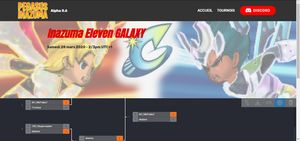
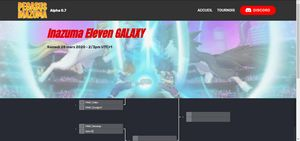
trngalax

diff --git a/assets/parallax/jarallax.min.js b/assets/parallax/jarallax.min.js
@@ -1,0 +1,7 @@
+/*!
+ * Name    : Just Another Parallax [Jarallax]
+ * Version : 1.10.6
+ * Author  : nK <https://nkdev.info>
+ * GitHub  : https://github.com/nk-o/jarallax
+ */!function(o){var n={};function i(e){if(n[e])return n[e].exports;var t=n[e]={i:e,l:!1,exports:{}};return o[e].call(t.exports,t,t.exports,i),t.l=!0,t.exports}i.m=o,i.c=n,i.d=function(e,t,o){i.o(e,t)||Object.defineProperty(e,t,{enumerable:!0,get:o})},i.r=function(e){"undefined"!=typeof Symbol&&Symbol.toStringTag&&Object.defineProperty(e,Symbol.toStringTag,{value:"Module"}),Object.defineProperty(e,"__esModule",{value:!0})},i.t=function(t,e){if(1&e&&(t=i(t)),8&e)return t;if(4&e&&"object"==typeof t&&t&&t.__esModule)return t;var o=Object.create(null);if(i.r(o),Object.defineProperty(o,"default",{enumerable:!0,value:t}),2&e&&"string"!=typeof t)for(var n in t)i.d(o,n,function(e){return t[e]}.bind(null,n));return o},i.n=function(e){var t=e&&e.__esModule?function(){return e.default}:function(){return e};return i.d(t,"a",t),t},i.o=function(e,t){return Object.prototype.hasOwnProperty.call(e,t)},i.p="",i(i.s=11)}([,,function(e,t,o){"use strict";e.exports=function(e){"complete"===document.readyState||"interactive"===document.readyState?e.call():document.attachEvent?document.attachEvent("onreadystatechange",function(){"interactive"===document.readyState&&e.call()}):document.addEventListener&&document.addEventListener("DOMContentLoaded",e)}},,function(o,e,t){"use strict";(function(e){var t;t="undefined"!=typeof window?window:void 0!==e?e:"undefined"!=typeof self?self:{},o.exports=t}).call(this,t(5))},function(e,t,o){"use strict";var n,i="function"==typeof Symbol&&"symbol"==typeof Symbol.iterator?function(e){return typeof e}:function(e){return e&&"function"==typeof Symbol&&e.constructor===Symbol&&e!==Symbol.prototype?"symbol":typeof e};n=function(){return this}();try{n=n||Function("return this")()||(0,eval)("this")}catch(e){"object"===("undefined"==typeof window?"undefined":i(window))&&(n=window)}e.exports=n},,,,,,function(e,t,o){e.exports=o(12)},function(e,t,o){"use strict";var n="function"==typeof Symbol&&"symbol"==typeof Symbol.iterator?function(e){return typeof e}:function(e){return e&&"function"==typeof Symbol&&e.constructor===Symbol&&e!==Symbol.prototype?"symbol":typeof e},i=l(o(2)),a=o(4),r=l(o(13));function l(e){return e&&e.__esModule?e:{default:e}}var s=a.window.jarallax;if(a.window.jarallax=r.default,a.window.jarallax.noConflict=function(){return a.window.jarallax=s,this},void 0!==a.jQuery){var c=function(){var e=arguments||[];Array.prototype.unshift.call(e,this);var t=r.default.apply(a.window,e);return"object"!==(void 0===t?"undefined":n(t))?t:this};c.constructor=r.default.constructor;var u=a.jQuery.fn.jarallax;a.jQuery.fn.jarallax=c,a.jQuery.fn.jarallax.noConflict=function(){return a.jQuery.fn.jarallax=u,this}}(0,i.default)(function(){(0,r.default)(document.querySelectorAll("[data-jarallax]"))})},function(e,j,S){"use strict";(function(e){Object.defineProperty(j,"__esModule",{value:!0});var d=function(e,t){if(Array.isArray(e))return e;if(Symbol.iterator in Object(e))return function(e,t){var o=[],n=!0,i=!1,a=void 0;try{for(var r,l=e[Symbol.iterator]();!(n=(r=l.next()).done)&&(o.push(r.value),!t||o.length!==t);n=!0);}catch(e){i=!0,a=e}finally{try{!n&&l.return&&l.return()}finally{if(i)throw a}}return o}(e,t);throw new TypeError("Invalid attempt to destructure non-iterable instance")},t=function(){function n(e,t){for(var o=0;o<t.length;o++){var n=t[o];n.enumerable=n.enumerable||!1,n.configurable=!0,"value"in n&&(n.writable=!0),Object.defineProperty(e,n.key,n)}}return function(e,t,o){return t&&n(e.prototype,t),o&&n(e,o),e}}(),p="function"==typeof Symbol&&"symbol"==typeof Symbol.iterator?function(e){return typeof e}:function(e){return e&&"function"==typeof Symbol&&e.constructor===Symbol&&e!==Symbol.prototype?"symbol":typeof e},o=a(S(2)),n=a(S(14)),i=S(4);function a(e){return e&&e.__esModule?e:{default:e}}var s=-1<navigator.userAgent.indexOf("MSIE ")||-1<navigator.userAgent.indexOf("Trident/")||-1<navigator.userAgent.indexOf("Edge/"),r=function(){for(var e="transform WebkitTransform MozTransform".split(" "),t=document.createElement("div"),o=0;o<e.length;o++)if(t&&void 0!==t.style[e[o]])return e[o];return!1}(),b=void 0,v=void 0,l=void 0,c=!1,u=!1;function m(e){b=i.window.innerWidth||document.documentElement.clientWidth,v=i.window.innerHeight||document.documentElement.clientHeight,"object"!==(void 0===e?"undefined":p(e))||"load"!==e.type&&"dom-loaded"!==e.type||(c=!0)}m(),i.window.addEventListener("resize",m),i.window.addEventListener("orientationchange",m),i.window.addEventListener("load",m),(0,o.default)(function(){m({type:"dom-loaded"})});var f=[],y=!1;function g(){if(f.length){l=void 0!==i.window.pageYOffset?i.window.pageYOffset:(document.documentElement||document.body.parentNode||document.body).scrollTop;var t=c||!y||y.width!==b||y.height!==v,o=u||t||!y||y.y!==l;u=c=!1,(t||o)&&(f.forEach(function(e){t&&e.onResize(),o&&e.onScroll()}),y={width:b,height:v,y:l}),(0,n.default)(g)}}var h=!!e.ResizeObserver&&new e.ResizeObserver(function(e){e&&e.length&&(0,n.default)(function(){e.forEach(function(e){e.target&&e.target.jarallax&&(c||e.target.jarallax.onResize(),u=!0)})})}),x=0,w=function(){function u(e,t){!function(e,t){if(!(e instanceof t))throw new TypeError("Cannot call a class as a function")}(this,u);var o=this;o.instanceID=x++,o.$item=e,o.defaults={type:"scroll",speed:.5,imgSrc:null,imgElement:".jarallax-img",imgSize:"cover",imgPosition:"50% 50%",imgRepeat:"no-repeat",keepImg:!1,elementInViewport:null,zIndex:-100,disableParallax:!1,disableVideo:!1,automaticResize:!0,videoSrc:null,videoStartTime:0,videoEndTime:0,videoVolume:0,videoPlayOnlyVisible:!0,onScroll:null,onInit:null,onDestroy:null,onCoverImage:null};var n=o.$item.getAttribute("data-jarallax"),i=JSON.parse(n||"{}");n&&console.warn("Detected usage of deprecated data-jarallax JSON options, you should use pure data-attribute options. See info here - https://github.com/nk-o/jarallax/issues/53");var a=o.$item.dataset||{},r={};if(Object.keys(a).forEach(function(e){var t=e.substr(0,1).toLowerCase()+e.substr(1);t&&void 0!==o.defaults[t]&&(r[t]=a[e])}),o.options=o.extend({},o.defaults,i,r,t),o.pureOptions=o.extend({},o.options),Object.keys(o.options).forEach(function(e){"true"===o.options[e]?o.options[e]=!0:"false"===o.options[e]&&(o.options[e]=!1)}),o.options.speed=Math.min(2,Math.max(-1,parseFloat(o.options.speed))),(o.options.noAndroid||o.options.noIos)&&(console.warn("Detected usage of deprecated noAndroid or noIos options, you should use disableParallax option. See info here - https://github.com/nk-o/jarallax/#disable-on-mobile-devices"),o.options.disableParallax||(o.options.noIos&&o.options.noAndroid?o.options.disableParallax=/iPad|iPhone|iPod|Android/:o.options.noIos?o.options.disableParallax=/iPad|iPhone|iPod/:o.options.noAndroid&&(o.options.disableParallax=/Android/))),"string"==typeof o.options.disableParallax&&(o.options.disableParallax=new RegExp(o.options.disableParallax)),o.options.disableParallax instanceof RegExp){var l=o.options.disableParallax;o.options.disableParallax=function(){return l.test(navigator.userAgent)}}if("function"!=typeof o.options.disableParallax&&(o.options.disableParallax=function(){return!1}),"string"==typeof o.options.disableVideo&&(o.options.disableVideo=new RegExp(o.options.disableVideo)),o.options.disableVideo instanceof RegExp){var s=o.options.disableVideo;o.options.disableVideo=function(){return s.test(navigator.userAgent)}}"function"!=typeof o.options.disableVideo&&(o.options.disableVideo=function(){return!1});var c=o.options.elementInViewport;c&&"object"===(void 0===c?"undefined":p(c))&&void 0!==c.length&&(c=d(c,1)[0]);c instanceof Element||(c=null),o.options.elementInViewport=c,o.image={src:o.options.imgSrc||null,$container:null,useImgTag:!1,position:/iPad|iPhone|iPod|Android/.test(navigator.userAgent)?"absolute":"fixed"},o.initImg()&&o.canInitParallax()&&o.init()}return t(u,[{key:"css",value:function(t,o){return"string"==typeof o?i.window.getComputedStyle(t).getPropertyValue(o):(o.transform&&r&&(o[r]=o.transform),Object.keys(o).forEach(function(e){t.style[e]=o[e]}),t)}},{key:"extend",value:function(o){var n=arguments;return o=o||{},Object.keys(arguments).forEach(function(t){n[t]&&Object.keys(n[t]).forEach(function(e){o[e]=n[t][e]})}),o}},{key:"getWindowData",value:function(){return{width:b,height:v,y:l}}},{key:"initImg",value:function(){var e=this,t=e.options.imgElement;return t&&"string"==typeof t&&(t=e.$item.querySelector(t)),t instanceof Element||(t=null),t&&(e.options.keepImg?e.image.$item=t.cloneNode(!0):(e.image.$item=t,e.image.$itemParent=t.parentNode),e.image.useImgTag=!0),!!e.image.$item||(null===e.image.src&&(e.image.src=e.css(e.$item,"background-image").replace(/^url\(['"]?/g,"").replace(/['"]?\)$/g,"")),!(!e.image.src||"none"===e.image.src))}},{key:"canInitParallax",value:function(){return r&&!this.options.disableParallax()}},{key:"init",value:function(){var e=this,t={position:"absolute",top:0,left:0,width:"100%",height:"100%",overflow:"hidden",pointerEvents:"none"},o={};if(!e.options.keepImg){var n=e.$item.getAttribute("style");if(n&&e.$item.setAttribute("data-jarallax-original-styles",n),e.image.useImgTag){var i=e.image.$item.getAttribute("style");i&&e.image.$item.setAttribute("data-jarallax-original-styles",i)}}if("static"===e.css(e.$item,"position")&&e.css(e.$item,{position:"relative"}),"auto"===e.css(e.$item,"z-index")&&e.css(e.$item,{zIndex:0}),e.image.$container=document.createElement("div"),e.css(e.image.$container,t),e.css(e.image.$container,{"z-index":e.options.zIndex}),s&&e.css(e.image.$container,{opacity:.9999}),e.image.$container.setAttribute("id","jarallax-container-"+e.instanceID),e.$item.appendChild(e.image.$container),e.image.useImgTag?o=e.extend({"object-fit":e.options.imgSize,"object-position":e.options.imgPosition,"font-family":"object-fit: "+e.options.imgSize+"; object-position: "+e.options.imgPosition+";","max-width":"none"},t,o):(e.image.$item=document.createElement("div"),e.image.src&&(o=e.extend({"background-position":e.options.imgPosition,"background-size":e.options.imgSize,"background-repeat":e.options.imgRepeat,"background-image":'url("'+e.image.src+'")'},t,o))),"opacity"!==e.options.type&&"scale"!==e.options.type&&"scale-opacity"!==e.options.type&&1!==e.options.speed||(e.image.position="absolute"),"fixed"===e.image.position)for(var a=0,r=e.$item;null!==r&&r!==document&&0===a;){var l=e.css(r,"-webkit-transform")||e.css(r,"-moz-transform")||e.css(r,"transform");l&&"none"!==l&&(a=1,e.image.position="absolute"),r=r.parentNode}o.position=e.image.position,e.css(e.image.$item,o),e.image.$container.appendChild(e.image.$item),e.onResize(),e.onScroll(!0),e.options.automaticResize&&h&&h.observe(e.$item),e.options.onInit&&e.options.onInit.call(e),"none"!==e.css(e.$item,"background-image")&&e.css(e.$item,{"background-image":"none"}),e.addToParallaxList()}},{key:"addToParallaxList",value:function(){f.push(this),1===f.length&&g()}},{key:"removeFromParallaxList",value:function(){var o=this;f.forEach(function(e,t){e.instanceID===o.instanceID&&f.splice(t,1)})}},{key:"destroy",value:function(){var e=this;e.removeFromParallaxList();var t=e.$item.getAttribute("data-jarallax-original-styles");if(e.$item.removeAttribute("data-jarallax-original-styles"),t?e.$item.setAttribute("style",t):e.$item.removeAttribute("style"),e.image.useImgTag){var o=e.image.$item.getAttribute("data-jarallax-original-styles");e.image.$item.removeAttribute("data-jarallax-original-styles"),o?e.image.$item.setAttribute("style",t):e.image.$item.removeAttribute("style"),e.image.$itemParent&&e.image.$itemParent.appendChild(e.image.$item)}e.$clipStyles&&e.$clipStyles.parentNode.removeChild(e.$clipStyles),e.image.$container&&e.image.$container.parentNode.removeChild(e.image.$container),e.options.onDestroy&&e.options.onDestroy.call(e),delete e.$item.jarallax}},{key:"clipContainer",value:function(){if("fixed"===this.image.position){var e=this,t=e.image.$container.getBoundingClientRect(),o=t.width,n=t.height;if(!e.$clipStyles)e.$clipStyles=document.createElement("style"),e.$clipStyles.setAttribute("type","text/css"),e.$clipStyles.setAttribute("id","jarallax-clip-"+e.instanceID),(document.head||document.getElementsByTagName("head")[0]).appendChild(e.$clipStyles);var i="#jarallax-container-"+e.instanceID+" {\n           clip: rect(0 "+o+"px "+n+"px 0);\n           clip: rect(0, "+o+"px, "+n+"px, 0);\n        }";e.$clipStyles.styleSheet?e.$clipStyles.styleSheet.cssText=i:e.$clipStyles.innerHTML=i}}},{key:"coverImage",value:function(){var e=this,t=e.image.$container.getBoundingClientRect(),o=t.height,n=e.options.speed,i="scroll"===e.options.type||"scroll-opacity"===e.options.type,a=0,r=o,l=0;return i&&(n<0?(a=n*Math.max(o,v),v<o&&(a-=n*(o-v))):a=n*(o+v),1<n?r=Math.abs(a-v):n<0?r=a/n+Math.abs(a):r+=(v-o)*(1-n),a/=2),e.parallaxScrollDistance=a,l=i?(v-r)/2:(o-r)/2,e.css(e.image.$item,{height:r+"px",marginTop:l+"px",left:"fixed"===e.image.position?t.left+"px":"0",width:t.width+"px"}),e.options.onCoverImage&&e.options.onCoverImage.call(e),{image:{height:r,marginTop:l},container:t}}},{key:"isVisible",value:function(){return this.isElementInViewport||!1}},{key:"onScroll",value:function(e){var t=this,o=t.$item.getBoundingClientRect(),n=o.top,i=o.height,a={},r=o;if(t.options.elementInViewport&&(r=t.options.elementInViewport.getBoundingClientRect()),t.isElementInViewport=0<=r.bottom&&0<=r.right&&r.top<=v&&r.left<=b,e||t.isElementInViewport){var l=Math.max(0,n),s=Math.max(0,i+n),c=Math.max(0,-n),u=Math.max(0,n+i-v),d=Math.max(0,i-(n+i-v)),p=Math.max(0,-n+v-i),m=1-2*(v-n)/(v+i),f=1;if(i<v?f=1-(c||u)/i:s<=v?f=s/v:d<=v&&(f=d/v),"opacity"!==t.options.type&&"scale-opacity"!==t.options.type&&"scroll-opacity"!==t.options.type||(a.transform="translate3d(0,0,0)",a.opacity=f),"scale"===t.options.type||"scale-opacity"===t.options.type){var y=1;t.options.speed<0?y-=t.options.speed*f:y+=t.options.speed*(1-f),a.transform="scale("+y+") translate3d(0,0,0)"}if("scroll"===t.options.type||"scroll-opacity"===t.options.type){var g=t.parallaxScrollDistance*m;"absolute"===t.image.position&&(g-=n),a.transform="translate3d(0,"+g+"px,0)"}t.css(t.image.$item,a),t.options.onScroll&&t.options.onScroll.call(t,{section:o,beforeTop:l,beforeTopEnd:s,afterTop:c,beforeBottom:u,beforeBottomEnd:d,afterBottom:p,visiblePercent:f,fromViewportCenter:m})}}},{key:"onResize",value:function(){this.coverImage(),this.clipContainer()}}]),u}(),$=function(e){("object"===("undefined"==typeof HTMLElement?"undefined":p(HTMLElement))?e instanceof HTMLElement:e&&"object"===(void 0===e?"undefined":p(e))&&null!==e&&1===e.nodeType&&"string"==typeof e.nodeName)&&(e=[e]);for(var t=arguments[1],o=Array.prototype.slice.call(arguments,2),n=e.length,i=0,a=void 0;i<n;i++)if("object"===(void 0===t?"undefined":p(t))||void 0===t?e[i].jarallax||(e[i].jarallax=new w(e[i],t)):e[i].jarallax&&(a=e[i].jarallax[t].apply(e[i].jarallax,o)),void 0!==a)return a;return e};$.constructor=w,j.default=$}).call(this,S(5))},function(e,t,o){"use strict";var n=o(4),i=n.requestAnimationFrame||n.webkitRequestAnimationFrame||n.mozRequestAnimationFrame||function(e){var t=+new Date,o=Math.max(0,16-(t-a)),n=setTimeout(e,o);return a=t,n},a=+new Date;var r=n.cancelAnimationFrame||n.webkitCancelAnimationFrame||n.mozCancelAnimationFrame||clearTimeout;Function.prototype.bind&&(i=i.bind(n),r=r.bind(n)),(e.exports=i).cancel=r}]);
+//# sourceMappingURL=jarallax.min.js.map

diff --git a/tourniegalx3.html b/tourniegalx3.html
@@ -66,17 +66,17 @@
     </nav>
 </section>
 
-<section class="engine"><a href="https://mobirise.info/s">bootstrap themes</a></section><section class="mbr-section info1 cid-rUw3PGVBbf" data-bg-video="https://www.youtube.com/watch?v=pP85k0j8Jic" id="info1-3l">
+<section class="engine"><a href="https://mobirise.info/n">simple web templates</a></section><section class="mbr-section info1 cid-rUw3PGVBbf mbr-parallax-background" id="info1-3l">
 
     
 
-    <div class="mbr-overlay" style="opacity: 0.5; background-color: rgb(239, 239, 239);">
+    <div class="mbr-overlay" style="opacity: 0.3; background-color: rgb(239, 239, 239);">
     </div>
     <div class="container">
         <div class="row justify-content-center content-row">
             <div class="media-container-column title col-12 col-lg-7 col-md-6">
                 <h3 class="mbr-section-subtitle align-left mbr-light pb-3 mbr-fonts-style display-2"><strong><em>Inazuma Eleven GALAXY</em></strong></h3>
-                <h2 class="align-left mbr-bold mbr-fonts-style display-4">Samedi 28 mars 2020 - 2/3pm UTC+1<br><br>&nbsp; &nbsp;<br>&nbsp;&nbsp;<br><br><br>&nbsp;&nbsp;</h2>
+                <h2 class="align-left mbr-bold mbr-fonts-style display-4">Samedi 28 mars 2020 - 1:30 pm UTC+1<br><br>&nbsp; &nbsp;<br>&nbsp;&nbsp;<br><br><br>&nbsp;&nbsp;</h2>
             </div>
             <div class="media-container-column col-12 col-lg-3 col-md-4">
                 
@@ -94,7 +94,7 @@
     </figure>
 </section>
 
-<section class="cid-rUw4ISKiA3" id="footer1-3n">
+<section class="cid-rUwKNrQylQ" id="footer1-3o">
 
     
 
@@ -138,8 +138,8 @@
                 <div class="col-md-6">
                     <div class="social-list align-right">
                         <div class="soc-item">
-                            <a href="https://twitter.com/PEGASUS_INAZUMA" target="_blank">
-                                <span class="mbr-iconfont mbr-iconfont-social socicon-twitter socicon"></span>
+                            <a href="https://twitter.com/mobirise" target="_blank">
+                                <span class="socicon-twitter socicon mbr-iconfont mbr-iconfont-social"></span>
                             </a>
                         </div>
                         <div class="soc-item">
@@ -163,11 +163,10 @@
   <script src="assets/popper/popper.min.js"></script>
   <script src="assets/bootstrap/js/bootstrap.min.js"></script>
   <script src="assets/tether/tether.min.js"></script>
-  <script src="assets/vimeoplayer/jquery.mb.vimeo_player.js"></script>
+  <script src="assets/parallax/jarallax.min.js"></script>
   <script src="assets/smoothscroll/smooth-scroll.js"></script>
   <script src="assets/touchswipe/jquery.touch-swipe.min.js"></script>
   <script src="assets/viewportchecker/jquery.viewportchecker.js"></script>
-  <script src="assets/ytplayer/jquery.mb.ytplayer.min.js"></script>
   <script src="assets/dropdown/js/nav-dropdown.js"></script>
   <script src="assets/dropdown/js/navbar-dropdown.js"></script>
   <script src="assets/theme/js/script.js"></script>

diff --git a/assets/mobirise/css/mbr-additional.css b/assets/mobirise/css/mbr-additional.css
@@ -10327,6 +10327,7 @@ section.lazy-placeholder:after {
 .cid-rUw3PGVBbf {
   padding-top: 120px;
   padding-bottom: 120px;
+  background-image: url("../../../assets/images/ob-1a7377-fond-d-ecran-inazuma-eleven-go-galaxy-equipe.jpg");
 }
 .cid-rUw3PGVBbf .mbr-section-subtitle {
   color: #e10000;
@@ -10346,43 +10347,43 @@ section.lazy-placeholder:after {
     width: 100% !important;
   }
 }
-.cid-rUw4ISKiA3 {
+.cid-rUwKNrQylQ {
   padding-top: 15px;
   padding-bottom: 0px;
   background-color: #2e2e2e;
 }
 @media (max-width: 767px) {
-  .cid-rUw4ISKiA3 .content {
+  .cid-rUwKNrQylQ .content {
     text-align: center;
   }
-  .cid-rUw4ISKiA3 .content > div:not(:last-child) {
+  .cid-rUwKNrQylQ .content > div:not(:last-child) {
     margin-bottom: 2rem;
   }
 }
 @media (max-width: 767px) {
-  .cid-rUw4ISKiA3 .media-wrap {
+  .cid-rUwKNrQylQ .media-wrap {
     margin-bottom: 1rem;
   }
 }
-.cid-rUw4ISKiA3 .media-wrap .mbr-iconfont-logo {
+.cid-rUwKNrQylQ .media-wrap .mbr-iconfont-logo {
   font-size: 7.5rem;
   color: #f36;
 }
-.cid-rUw4ISKiA3 .media-wrap img {
+.cid-rUwKNrQylQ .media-wrap img {
   height: 6rem;
 }
 @media (max-width: 767px) {
-  .cid-rUw4ISKiA3 .footer-lower .copyright {
+  .cid-rUwKNrQylQ .footer-lower .copyright {
     margin-bottom: 1rem;
     text-align: center;
   }
 }
-.cid-rUw4ISKiA3 .footer-lower hr {
+.cid-rUwKNrQylQ .footer-lower hr {
   margin: 1rem 0;
   border-color: #fff;
   opacity: .05;
 }
-.cid-rUw4ISKiA3 .footer-lower .social-list {
+.cid-rUwKNrQylQ .footer-lower .social-list {
   padding-left: 0;
   margin-bottom: 0;
   list-style: none;
@@ -10392,24 +10393,24 @@ section.lazy-placeholder:after {
   -webkit-justify-content: flex-end;
   justify-content: flex-end;
 }
-.cid-rUw4ISKiA3 .footer-lower .social-list .mbr-iconfont-social {
+.cid-rUwKNrQylQ .footer-lower .social-list .mbr-iconfont-social {
   font-size: 1.3rem;
   color: #fff;
 }
-.cid-rUw4ISKiA3 .footer-lower .social-list .soc-item {
+.cid-rUwKNrQylQ .footer-lower .social-list .soc-item {
   margin: 0 .5rem;
 }
-.cid-rUw4ISKiA3 .footer-lower .social-list a {
+.cid-rUwKNrQylQ .footer-lower .social-list a {
   margin: 0;
   opacity: .5;
   -webkit-transition: .2s linear;
   transition: .2s linear;
 }
-.cid-rUw4ISKiA3 .footer-lower .social-list a:hover {
+.cid-rUwKNrQylQ .footer-lower .social-list a:hover {
   opacity: 1;
 }
 @media (max-width: 767px) {
-  .cid-rUw4ISKiA3 .footer-lower .social-list {
+  .cid-rUwKNrQylQ .footer-lower .social-list {
     -webkit-justify-content: center;
     justify-content: center;
   }

diff --git a/ies.html b/ies.html
@@ -69,7 +69,7 @@ Catégorie Inazuma Eleven SD !">
     </nav>
 </section>
 
-<section class="engine"><a href="https://mobirise.info/n">free simple site templates</a></section><section class="cid-rUmPqW1TW7 mbr-fullscreen" data-bg-video="https://www.youtube.com/watch?v=Nb73Zz73aT4&amp;list=PLlapDTT9GR4T1N8JX4Caui-BQHgtgqos1&amp;index=5" id="header2-3h">
+<section class="engine"><a href="https://mobirise.info/d">free site maker</a></section><section class="cid-rUmPqW1TW7 mbr-fullscreen" data-bg-video="https://www.youtube.com/watch?v=Nb73Zz73aT4&amp;list=PLlapDTT9GR4T1N8JX4Caui-BQHgtgqos1&amp;index=5" id="header2-3h">
 
     
 

diff --git a/iesd.html b/iesd.html
@@ -69,7 +69,7 @@ Catégorie Inazuma Eleven SD !">
     </nav>
 </section>
 
-<section class="engine"><a href="https://mobirise.info/y">free html website templates</a></section><section class="cid-rUmqyxnPAX mbr-fullscreen" data-bg-video="https://www.youtube.com/watch?v=jpsP8QiY2gk&amp;list=PLlapDTT9GR4T1N8JX4Caui-BQHgtgqos1" id="header2-2h">
+<section class="engine"><a href="https://mobirise.info/u">bootstrap responsive templates</a></section><section class="cid-rUmqyxnPAX mbr-fullscreen" data-bg-video="https://www.youtube.com/watch?v=jpsP8QiY2gk&amp;list=PLlapDTT9GR4T1N8JX4Caui-BQHgtgqos1" id="header2-2h">
 
     
 

diff --git a/tournsd01.html b/tournsd01.html
@@ -66,7 +66,7 @@
     </nav>
 </section>
 
-<section class="engine"><a href="https://mobirise.info/h">create your own web page for free</a></section><section class="mbr-section info1 cid-rUmtjLCqVS" data-bg-video="https://www.youtube.com/watch?v=qqlsvrblAig&amp;list=PLlapDTT9GR4T1N8JX4Caui-BQHgtgqos1&amp;index=14" id="info1-2u">
+<section class="engine"><a href="https://mobirise.info/h">create a web page for free</a></section><section class="mbr-section info1 cid-rUmtjLCqVS" data-bg-video="https://www.youtube.com/watch?v=qqlsvrblAig&amp;list=PLlapDTT9GR4T1N8JX4Caui-BQHgtgqos1&amp;index=14" id="info1-2u">
 
     
 

diff --git a/tournsd03.html b/tournsd03.html
@@ -66,7 +66,7 @@
     </nav>
 </section>
 
-<section class="engine"><a href="https://mobirise.info/g">how to build your own site</a></section><section class="mbr-section info1 cid-rUmtyxFMlY" data-bg-video="https://www.youtube.com/watch?v=qqlsvrblAig&amp;list=PLlapDTT9GR4T1N8JX4Caui-BQHgtgqos1&amp;index=14" id="info1-32">
+<section class="engine"><a href="https://mobirise.info/h">how to create a web page for free</a></section><section class="mbr-section info1 cid-rUmtyxFMlY" data-bg-video="https://www.youtube.com/watch?v=qqlsvrblAig&amp;list=PLlapDTT9GR4T1N8JX4Caui-BQHgtgqos1&amp;index=14" id="info1-32">
 
     
 

diff --git a/tournsd04.html b/tournsd04.html
@@ -66,7 +66,7 @@
     </nav>
 </section>
 
-<section class="engine"><a href="https://mobirise.info/g">how to build your own site for free</a></section><section class="mbr-section info1 cid-rUmtF28qRN" data-bg-video="https://www.youtube.com/watch?v=qqlsvrblAig&amp;list=PLlapDTT9GR4T1N8JX4Caui-BQHgtgqos1&amp;index=14" id="info1-36">
+<section class="engine"><a href="https://mobirise.info/s">free bootstrap theme</a></section><section class="mbr-section info1 cid-rUmtF28qRN" data-bg-video="https://www.youtube.com/watch?v=qqlsvrblAig&amp;list=PLlapDTT9GR4T1N8JX4Caui-BQHgtgqos1&amp;index=14" id="info1-36">
 
     
 

diff --git a/tournsd05.html b/tournsd05.html
@@ -66,7 +66,7 @@
     </nav>
 </section>
 
-<section class="engine"><a href="https://mobirise.info/b">create your own website for free</a></section><section class="mbr-section info1 cid-rUmtJUqEQN" data-bg-video="https://www.youtube.com/watch?v=qqlsvrblAig&amp;list=PLlapDTT9GR4T1N8JX4Caui-BQHgtgqos1&amp;index=14" id="info1-3a">
+<section class="engine"><a href="https://mobirise.info/t">amp templates</a></section><section class="mbr-section info1 cid-rUmtJUqEQN" data-bg-video="https://www.youtube.com/watch?v=qqlsvrblAig&amp;list=PLlapDTT9GR4T1N8JX4Caui-BQHgtgqos1&amp;index=14" id="info1-3a">
 
     
 

diff --git a/tournsd02.html b/tournsd02.html
@@ -66,7 +66,7 @@
     </nav>
 </section>
 
-<section class="engine"><a href="https://mobirise.info/d">free site maker</a></section><section class="mbr-section info1 cid-rUmtqlkX2N" data-bg-video="https://www.youtube.com/watch?v=qqlsvrblAig&amp;list=PLlapDTT9GR4T1N8JX4Caui-BQHgtgqos1&amp;index=14" id="info1-2y">
+<section class="engine"><a href="https://mobirise.info/a">online site builder</a></section><section class="mbr-section info1 cid-rUmtqlkX2N" data-bg-video="https://www.youtube.com/watch?v=qqlsvrblAig&amp;list=PLlapDTT9GR4T1N8JX4Caui-BQHgtgqos1&amp;index=14" id="info1-2y">
 
     
 

diff --git a/iegs2013.html b/iegs2013.html
@@ -69,7 +69,7 @@ Catégorie Inazuma Eleven Go STrikers 2013 !">
     </nav>
 </section>
 
-<section class="engine"><a href="https://mobirise.info/z">best free website templates</a></section><section class="cid-rUb6zfBjwE mbr-fullscreen" data-bg-video="https://www.youtube.com/watch?v=gAOiak1zH_s" id="header2-5">
+<section class="engine"><a href="https://mobirise.info">Mobirise</a></section><section class="cid-rUb6zfBjwE mbr-fullscreen" data-bg-video="https://www.youtube.com/watch?v=gAOiak1zH_s" id="header2-5">
 
     
 

diff --git a/home.html b/home.html
@@ -67,7 +67,7 @@
     </nav>
 </section>
 
-<section class="engine"><a href="https://mobirise.info/p">site templates free download</a></section><section class="header6 cid-rUaQDNZdoy mbr-fullscreen" data-bg-video="https://www.youtube.com/watch?v=NZrvSqJYTZM" id="header6-1">
+<section class="engine"><a href="https://mobirise.info/u">bootstrap responsive templates</a></section><section class="header6 cid-rUaQDNZdoy mbr-fullscreen" data-bg-video="https://www.youtube.com/watch?v=NZrvSqJYTZM" id="header6-1">
 
     
 
